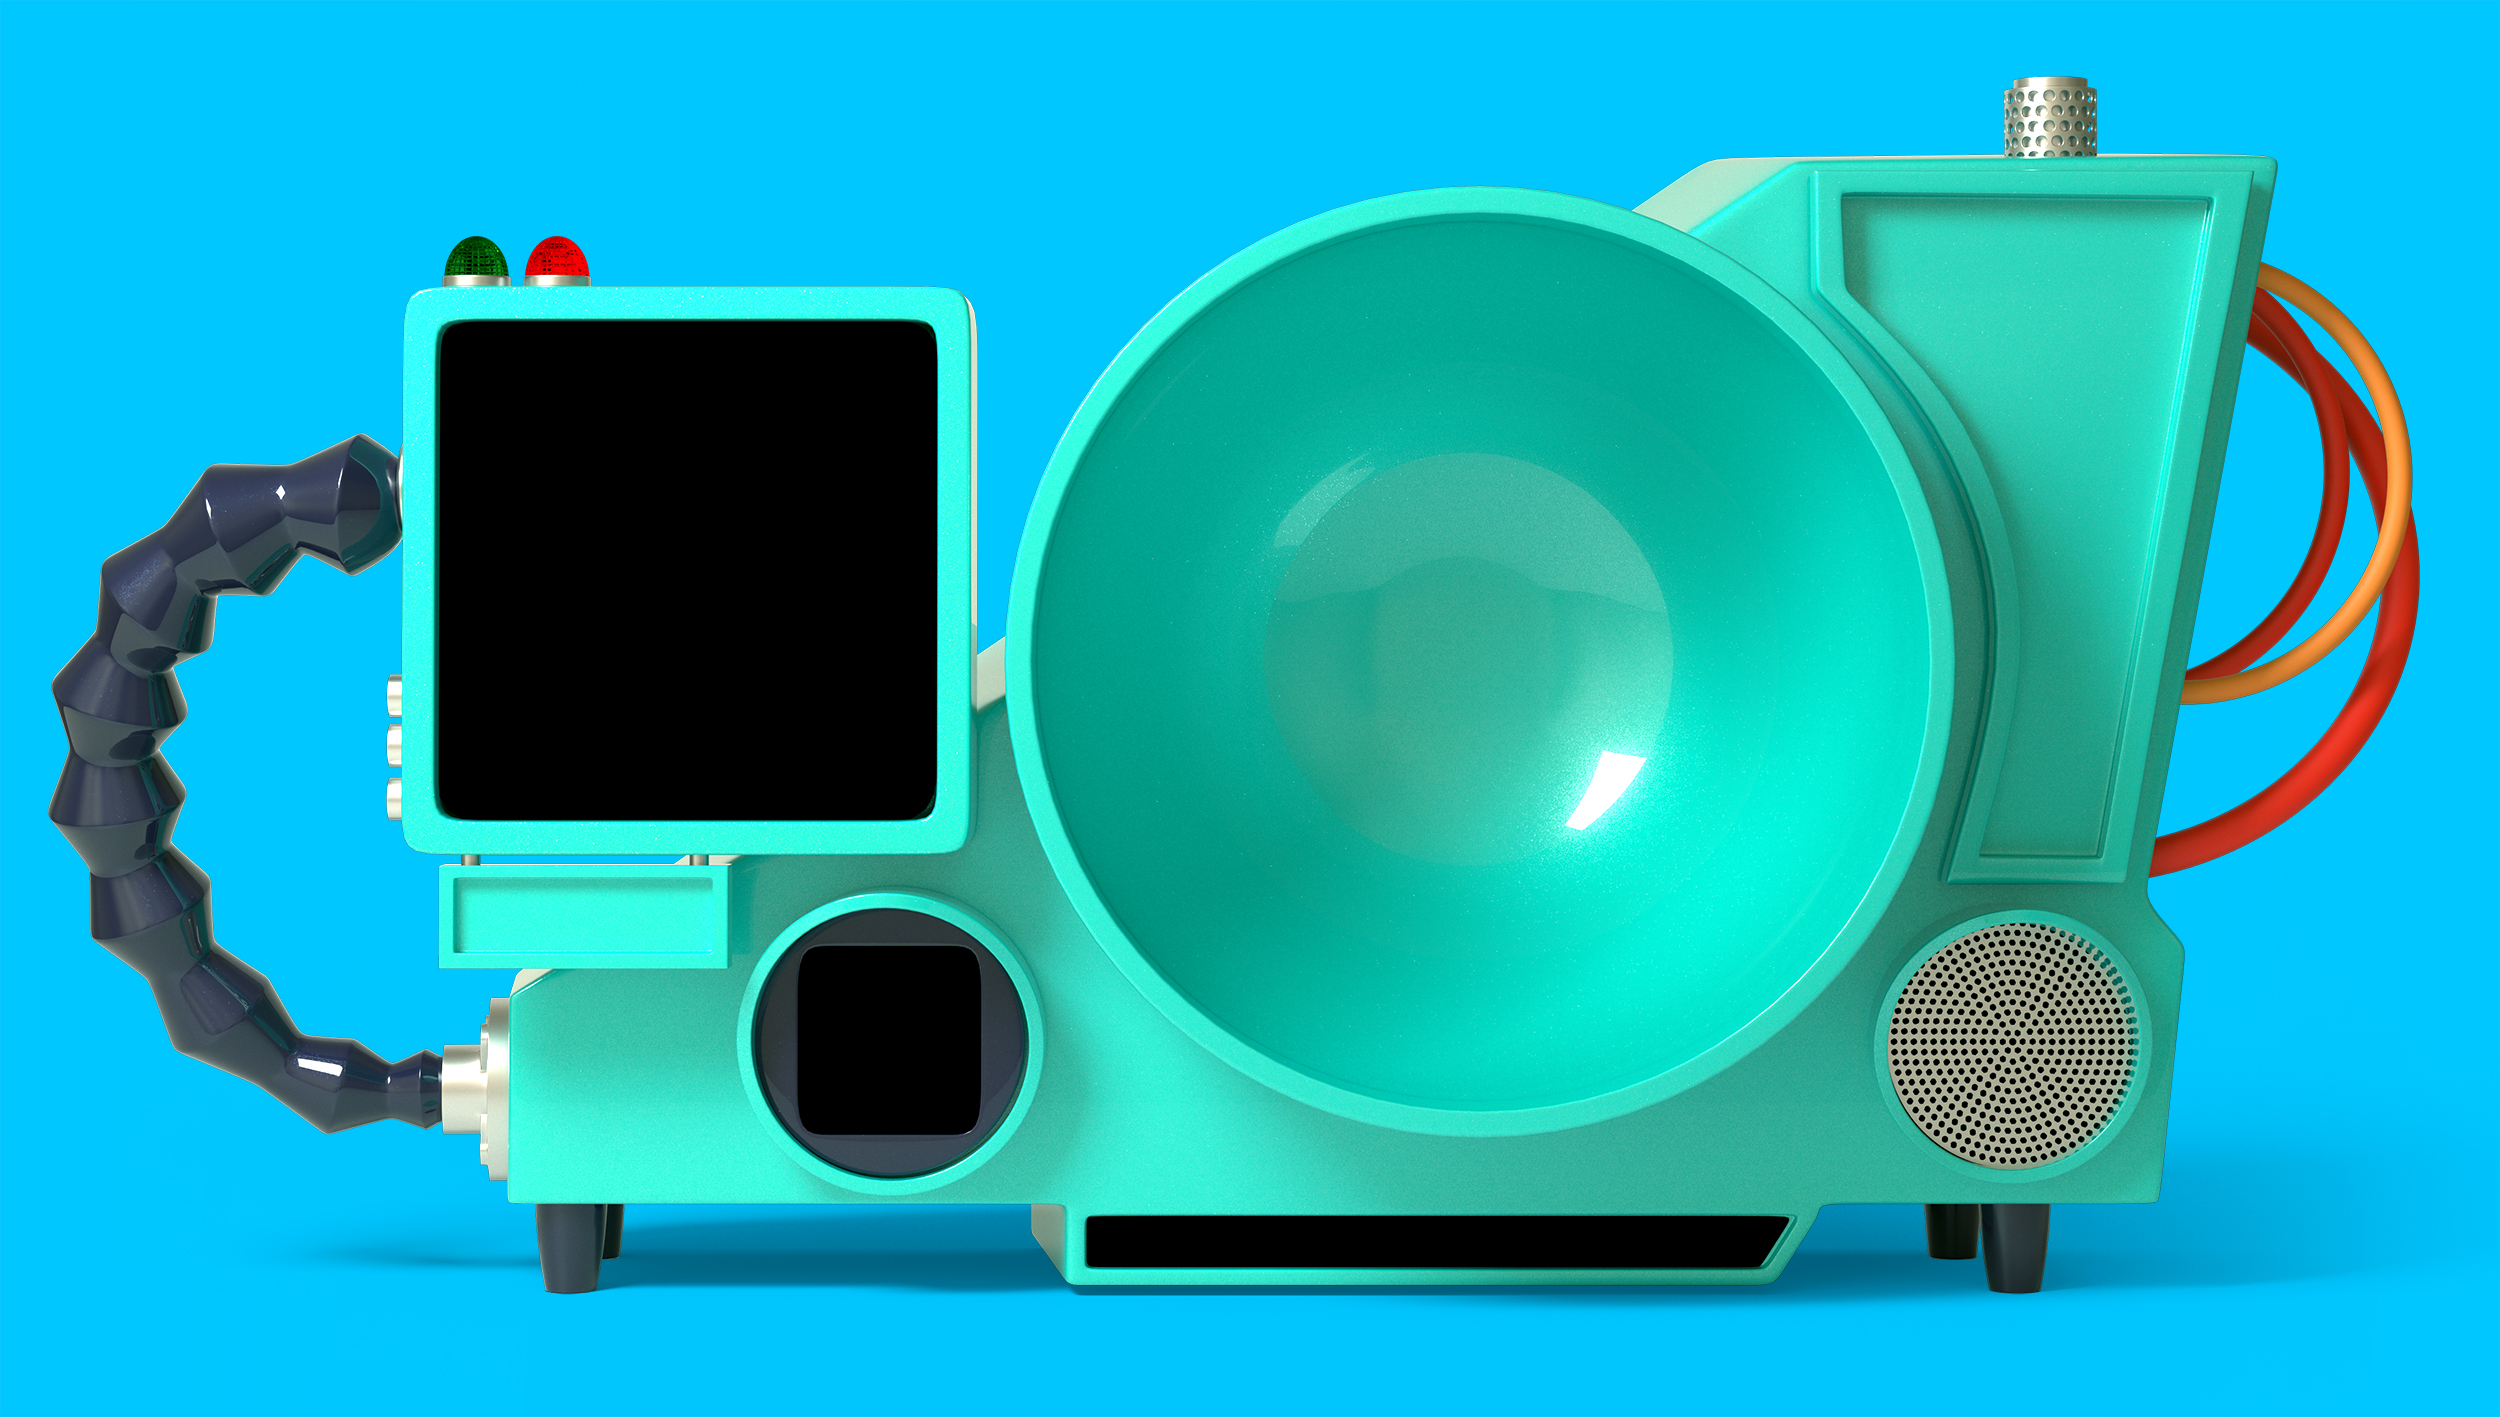
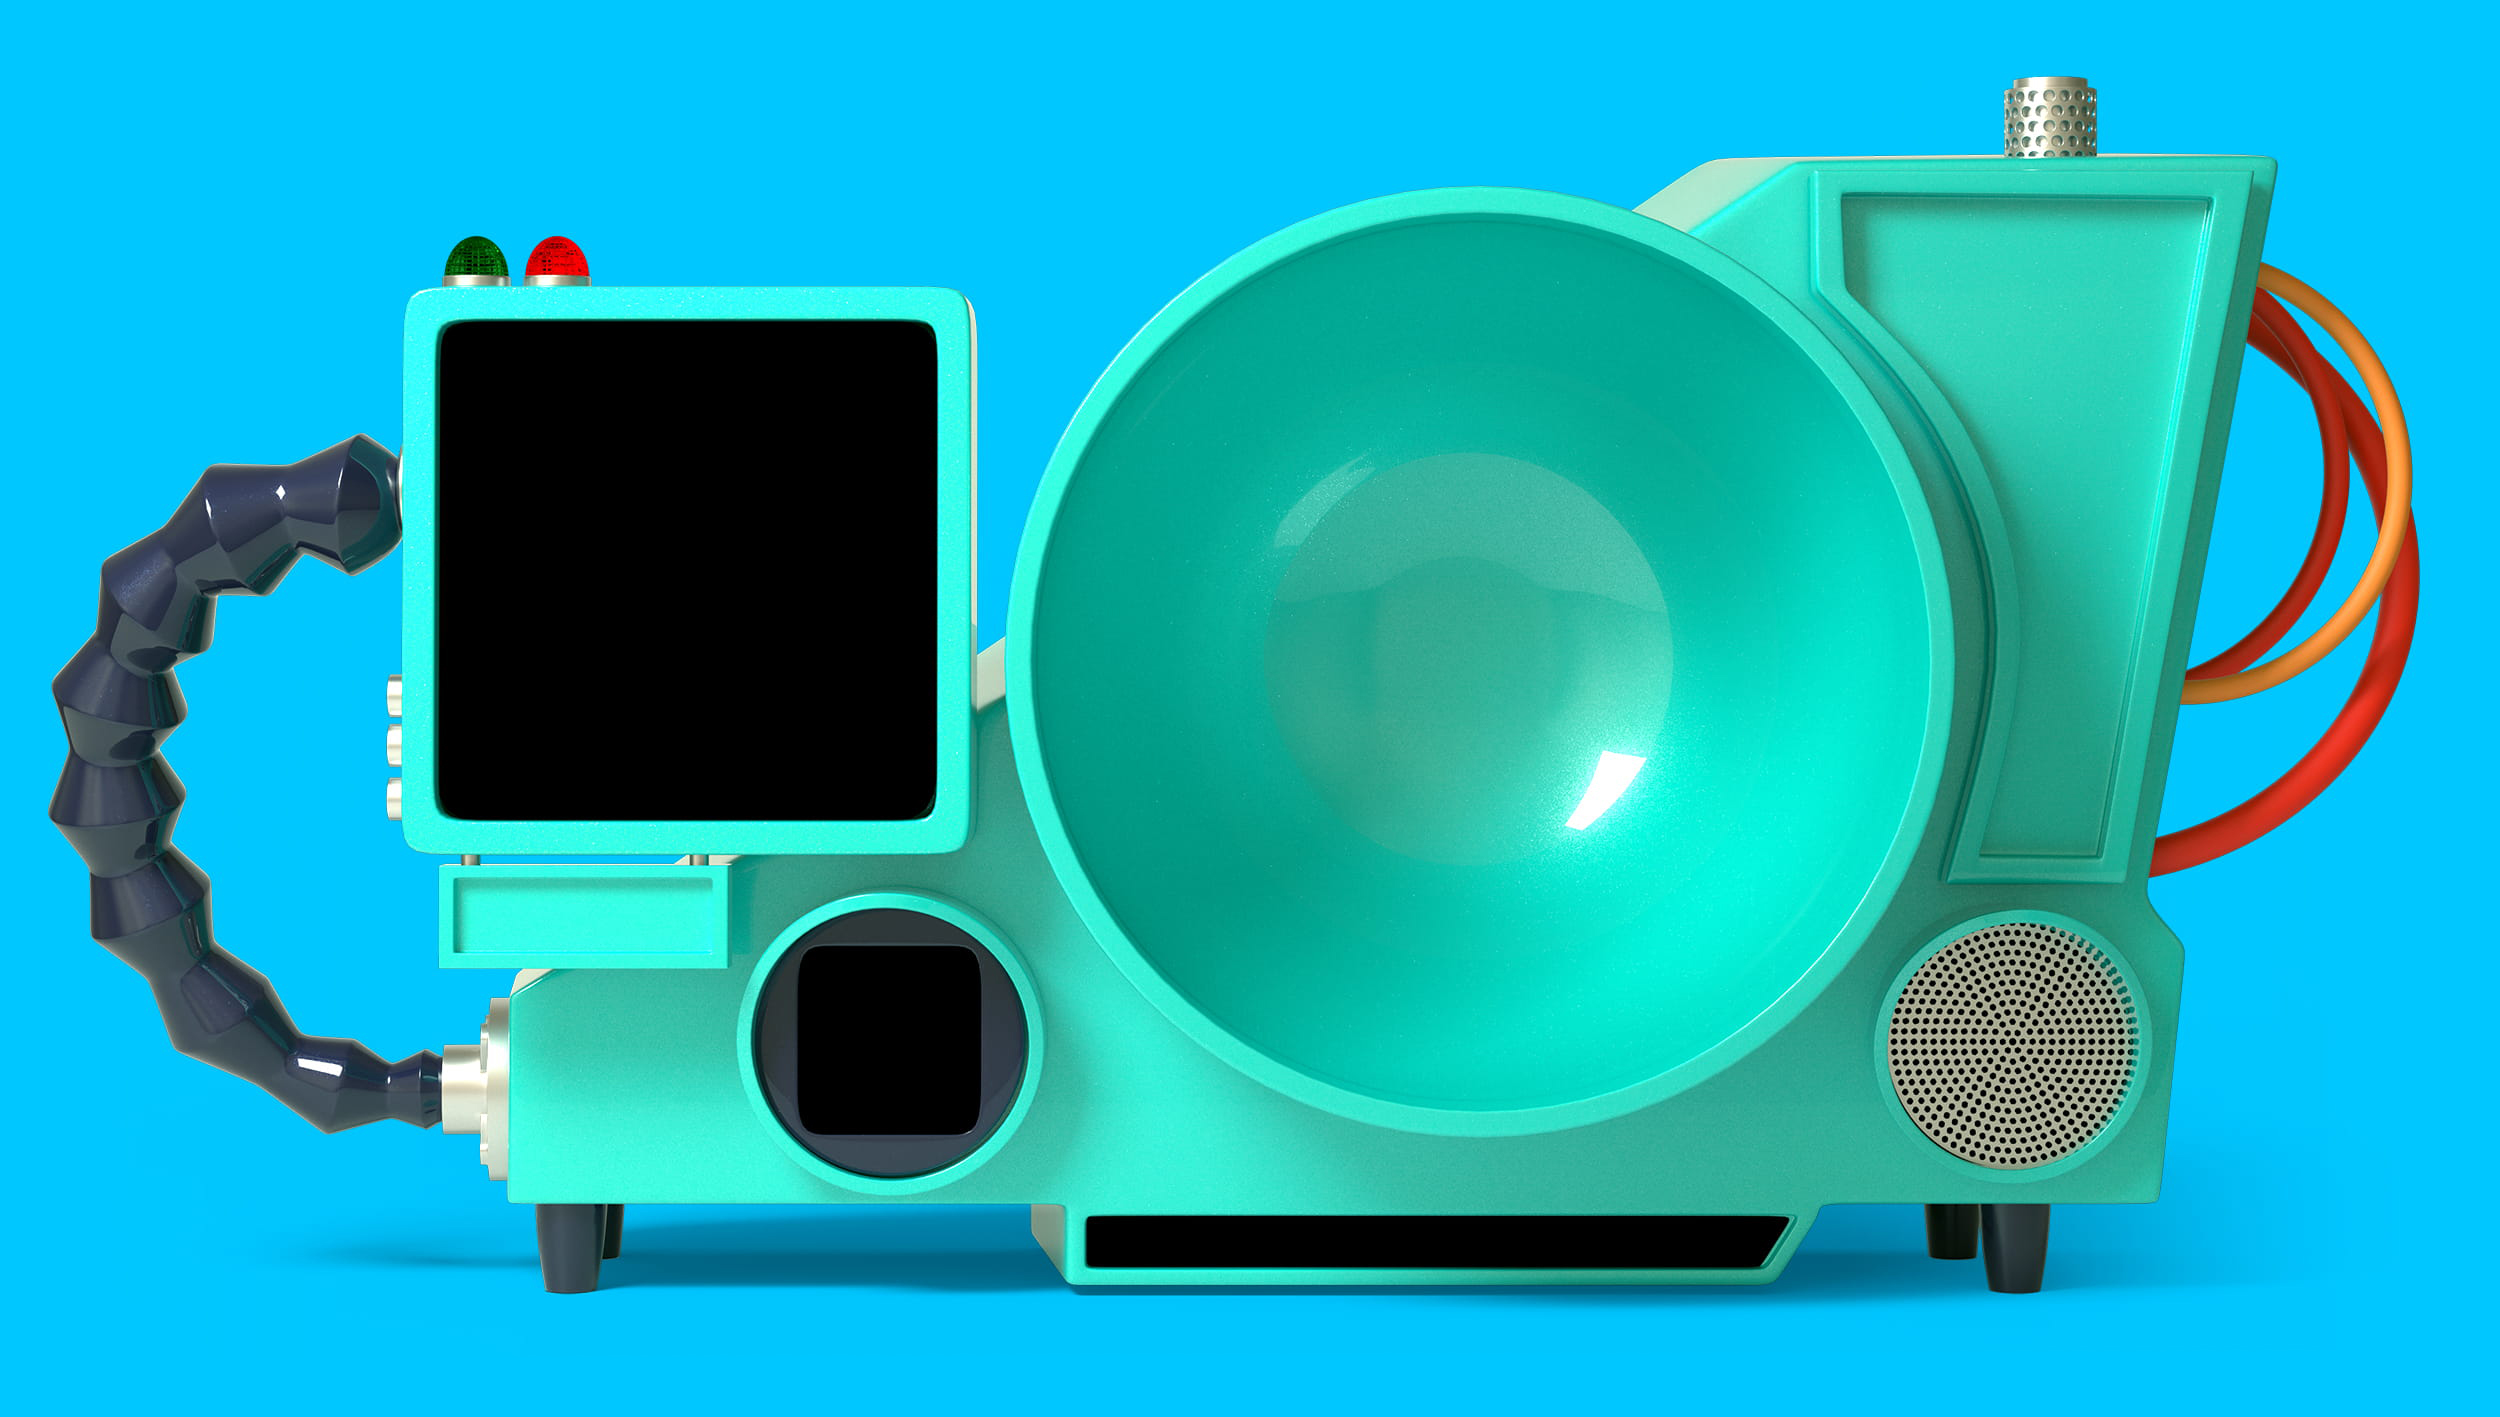
fix background seam

Changed region(s): [[0.8424, 0.8384, 0.936, 0.9315], [0.624, 0.5589, 0.6552, 0.59], [0.3744, 0.4347, 0.4056, 0.4658]]

diff --git a/src/App.scss b/src/App.scss
@@ -5,7 +5,7 @@ body, html {
 }
 
 body {
-  background-color: #02c6fd;
+  background-color: #00c7ff;
 }
 
 .app-container {
